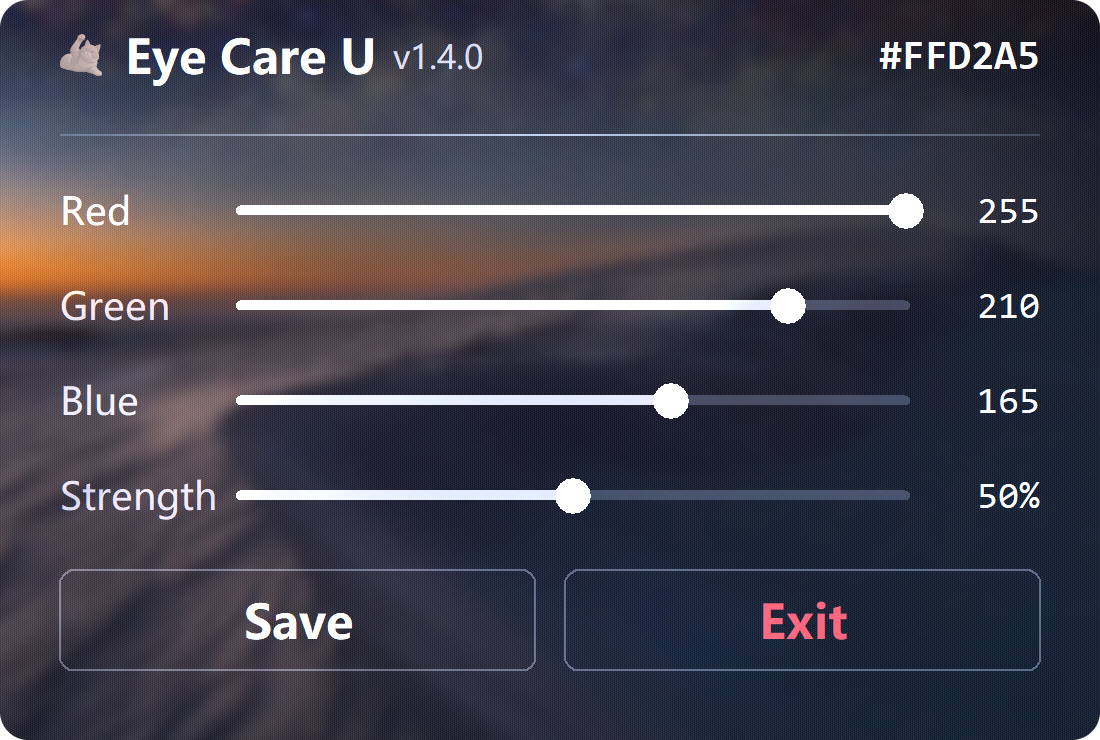
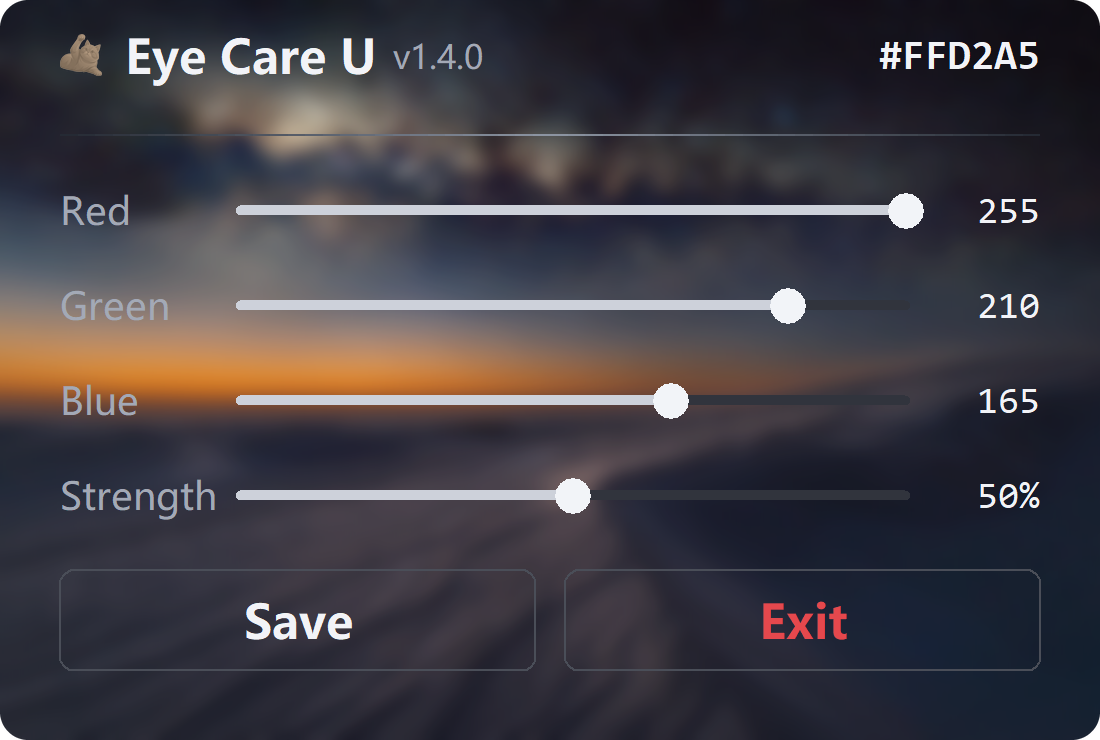
feat: README 面板图玻璃底改为壁纸资产软件合成，取消 Win+D 采桌面
- panel_render 首跑把当前桌面壁纸缩存为 assets/wallpaper.png 入库，此后
  渲染固定用它：高斯模糊 + 压暗软件合成（高透参数：模糊 8、压暗 12%），
  完全由 Python 代码生成、结果可复现
- 渲染窗口关闭 DWM 玻璃并先铺背景后显示：DWM 玻璃开着时 PrintWindow
  会把窗口背后的桌面混进半透明区域，垫底的壁纸因而不生效（根因）
- 壁纸资产缺失时自动重新抓取；想换氛围直接替换 assets/wallpaper.png

diff --git a/tools/panel_render.py b/tools/panel_render.py
@@ -1,11 +1,12 @@
 # -*- coding: utf-8 -*-
-"""README 面板截图：真实 GlassPanel 按 SCALE 倍高清渲染 → PrintWindow 采集 → 烤圆角。
+"""README 面板截图：真实 GlassPanel 按 SCALE 倍高清渲染，玻璃底由仓库壁纸
+资产软件合成（高斯模糊 + 25% 压暗），全程无 Win+D、不采集真实桌面。
 
 实机面板只有 440×296 物理像素（100% DPI 屏），直接截屏再放大必然发虚；
-这里让文字按 SCALE 倍点阵化、矢量元素整体放大、logo 用高清原图重缩放，
-得到真正的高分辨率版本，采集走 menu_qa 的 PrintWindow 路径（玻璃底一并合成）。
-亚克力采样的是窗口后面的真实桌面，故截图前先 Win+D 最小化全部窗口、
-以桌面壁纸为玻璃背景，采集完成后自动再按一次还原。
+这里让文字按 SCALE 倍点阵化、矢量元素整体放大、logo 用当前色高清重染，
+PrintWindow 只负责采集 Tk 画布自身的渲染结果，背景与桌面完全解耦。
+壁纸资产：assets/wallpaper.png 缺失时自动抓当前桌面壁纸缩存入库（一次性，
+提交到仓库），此后渲染结果完全确定；想换氛围直接替换该文件再跑。
 用法: python tools/panel_render.py
 产物: docs/panel.png（README 用，已带圆角）
 """
@@ -14,7 +15,6 @@ import ctypes.wintypes as wt
 import os
 import queue
 import sys
-import time
 import tkinter as tk
 import tkinter.font as tkfont
 
@@ -28,14 +28,51 @@ os.chdir(ROOT)
 SCALE = 2.5      # 440×296 → 1100×740，README 以 440px 展示正好 2.5x 密度
 RADIUS = 28      # 圆角半径（源图像素）
 OUT = os.path.join(ROOT, "docs", "panel.png")
+WALLPAPER = os.path.join(ROOT, "assets", "wallpaper.png")
+BLUR_RADIUS = 8    # 亚克力模糊强度（合成尺寸下的高斯半径），高透
+TINT_ALPHA = 0.12  # 玻璃压暗比例，高透（实机 GLASS_TINT stipple 为 25%）
 
 
-def toggle_desktop():
-    """Win+D：显示/还原桌面。截玻璃底前清空背景，采完还原窗口。"""
-    user32.keybd_event(0x5B, 0, 0, 0)    # LWIN down
-    user32.keybd_event(0x44, 0, 0, 0)    # D down
-    user32.keybd_event(0x44, 0, 2, 0)    # D up
-    user32.keybd_event(0x5B, 0, 2, 0)    # LWIN up
+def cover_crop(img, w, h):
+    """等比放大到铺满 w×h 后居中裁切"""
+    from PIL import Image
+    scale = max(w / img.width, h / img.height)
+    img = img.resize((round(img.width * scale), round(img.height * scale)),
+                     Image.LANCZOS)
+    x = (img.width - w) // 2
+    y = (img.height - h) // 2
+    return img.crop((x, y, x + w, y + h))
+
+
+def load_wallpaper(size):
+    """玻璃底用壁纸：优先仓库资产；缺失时抓当前桌面壁纸缩存入库（一次性）"""
+    from PIL import Image, ImageDraw
+    if os.path.exists(WALLPAPER):
+        return Image.open(WALLPAPER).convert("RGB")
+    buf = ctypes.create_unicode_buffer(260)
+    user32.SystemParametersInfoW(0x0073, 260, buf, 0)   # SPI_GETDESKWALLPAPER
+    if buf.value and os.path.exists(buf.value):
+        img = Image.open(buf.value).convert("RGB")
+    else:   # 纯色/幻灯片壁纸取不到文件路径时，退化为深蓝灰渐变
+        img = Image.new("RGB", (1920, 1080))
+        d = ImageDraw.Draw(img)
+        for y in range(img.height):
+            t = y / img.height
+            d.line([(0, y), (img.width, y)],
+                   fill=(int(38 + 22 * t), int(48 + 26 * t), int(66 + 30 * t)))
+    img = cover_crop(img, *size)
+    img.save(WALLPAPER, optimize=True)
+    print("wallpaper asset ->", WALLPAPER)
+    return img
+
+
+def glass_background(m, size):
+    """亚克力玻璃底：壁纸高斯模糊后向 GLASS_TINT 压暗 25%，
+    与实机“黑即玻璃 + GLASS_TINT stipple gray25”的叠加数学对齐"""
+    from PIL import Image, ImageFilter
+    base = load_wallpaper(size).filter(ImageFilter.GaussianBlur(BLUR_RADIUS))
+    tint = Image.new("RGB", base.size, m.GLASS_TINT)
+    return Image.blend(base, tint, TINT_ALPHA)
 
 
 def hi_res_panel(m):
@@ -66,8 +103,14 @@ def hi_res_panel(m):
     app._panel = None
     app.save_action = lambda: None
 
+    # 渲染窗口不需要 DWM 玻璃：玻璃底已软件合成进画布。开着它 PrintWindow
+    # 会把窗口背后的桌面模糊混进半透明区域（壁纸垫底不生效的根因），
+    # 关掉后采集的是纯 GDI 表面，与桌面彻底解耦
+    m.enable_glass = lambda hwnd: False
+
     panel = m.GlassPanel(app)
     win, cv = panel.win, panel.canvas
+    win.withdraw()   # 先不出窗口：背景铺好后再见人
     sw, sh = round(m.PANEL_W * SCALE), round(m.PANEL_H * SCALE)
 
     # 1) 矢量元素整体 ×SCALE；线条宽度不在 canvas.scale 之列，手动同步
@@ -107,11 +150,22 @@ def hi_res_panel(m):
             panel._photo = ImageTk.PhotoImage(tinted)
             cv.create_image(x0, y0, anchor=anchor, image=panel._photo)
 
-    # 4) 窗口放大并重新锚定工作区右下角
+    # 4) 玻璃底软件合成：删掉画布上的玻璃底矩形（全画布唯一的 rectangle），
+    #    垫入模糊压暗的壁纸。此后采集结果与窗口背后的桌面完全无关
+    for item in cv.find_withtag("all"):
+        if cv.type(item) == "rectangle":
+            cv.delete(item)
+    from PIL import ImageTk
+    panel._wp_photo = ImageTk.PhotoImage(glass_background(m, (sw, sh)))
+    wp_item = cv.create_image(0, 0, anchor="nw", image=panel._wp_photo)
+    cv.tag_lower(wp_item)
+
+    # 5) 窗口放大并重新锚定工作区右下角（仅摆放位置，采集不依赖桌面）
     wa = m.work_area()
     win.geometry("%dx%d+%d+%d" % (sw, sh, wa.right - sw - 12, wa.bottom - sh - 12))
     cv.configure(width=sw, height=sh)
     win.update_idletasks()
+    win.deiconify()   # 背景已铺好，再出窗口
 
     def grab():
         from menu_qa import grab_img
@@ -140,9 +194,6 @@ def main():
     import eye_care_u as m
     m.tk = tk
 
-    toggle_desktop()          # 最小化全部窗口，桌面作为玻璃背景
-    time.sleep(1.0)           # 等最小化动画结束
-
     panel, grab, root = hi_res_panel(m)
 
     def finish():
@@ -151,10 +202,8 @@ def main():
         print("panel ->", OUT, img.size)
         panel.close()
         root.destroy()
-        time.sleep(0.3)
-        toggle_desktop()      # 还原窗口
 
-    root.after(400, finish)   # 等玻璃合成稳定再采集
+    root.after(400, finish)   # 等画布渲染稳定再采集
     root.mainloop()
 
 

diff --git a/AGENTS.md b/AGENTS.md
@@ -32,13 +32,16 @@ build.bat                                    # 打包（先托盘 Exit 退出运
 ## README 截图（docs/panel.png）
 
 - 由 `tools/panel_render.py` 生成，不是手动截图：真实 GlassPanel 按
-  SCALE=2.5 重渲染（文字 2.5 倍点阵化、矢量元素整体放大、logo 高清
-  重缩放），PrintWindow 采集玻璃底，最后烤 28px 圆角
+  SCALE=2.5 重渲染（文字 2.5 倍点阵化、矢量元素整体放大、logo 用当前色
+  高清重染），PrintWindow 只采集 Tk 画布自身，最后烤 28px 圆角
 - 实机渲染分辨率有限（见下节 DPI），截屏后位图拉伸必然发虚，
   禁止用"截屏再放大"替代该工具
-- 运行时会 Win+D 最小化全部窗口、以桌面壁纸作亚克力背景，采完自动还原；
-  屏幕会短暂闪现面板，属正常
-- 玻璃底采的是当前桌面，效果随壁纸变化；想要特定氛围先换壁纸再跑
+- 玻璃底由仓库壁纸资产 assets/wallpaper.png 软件合成（高斯模糊 + 25%
+  压暗，对齐实机 GLASS_TINT stipple 的叠加数学），不再 Win+D、不采桌面
+- 渲染窗口必须关 DWM 玻璃、先铺背景后显示窗口：DWM 玻璃开着时
+  PrintWindow 会把窗口背后的桌面模糊混进半透明区域（踩过的坑）
+- 资产缺失时 panel_render 自动抓当前桌面壁纸缩存入库；想换氛围直接
+  替换 assets/wallpaper.png 再跑
 - README 以 `<p align="center"><img width="440">` 居中展示
   （1100 ÷ 440 = 2.5x 密度），改显示宽度时保持与 SCALE 的整倍数关系
 - 面板配色读取 `dist/eye_care_u_settings.json` 当前值，截图展示真实使用状态
